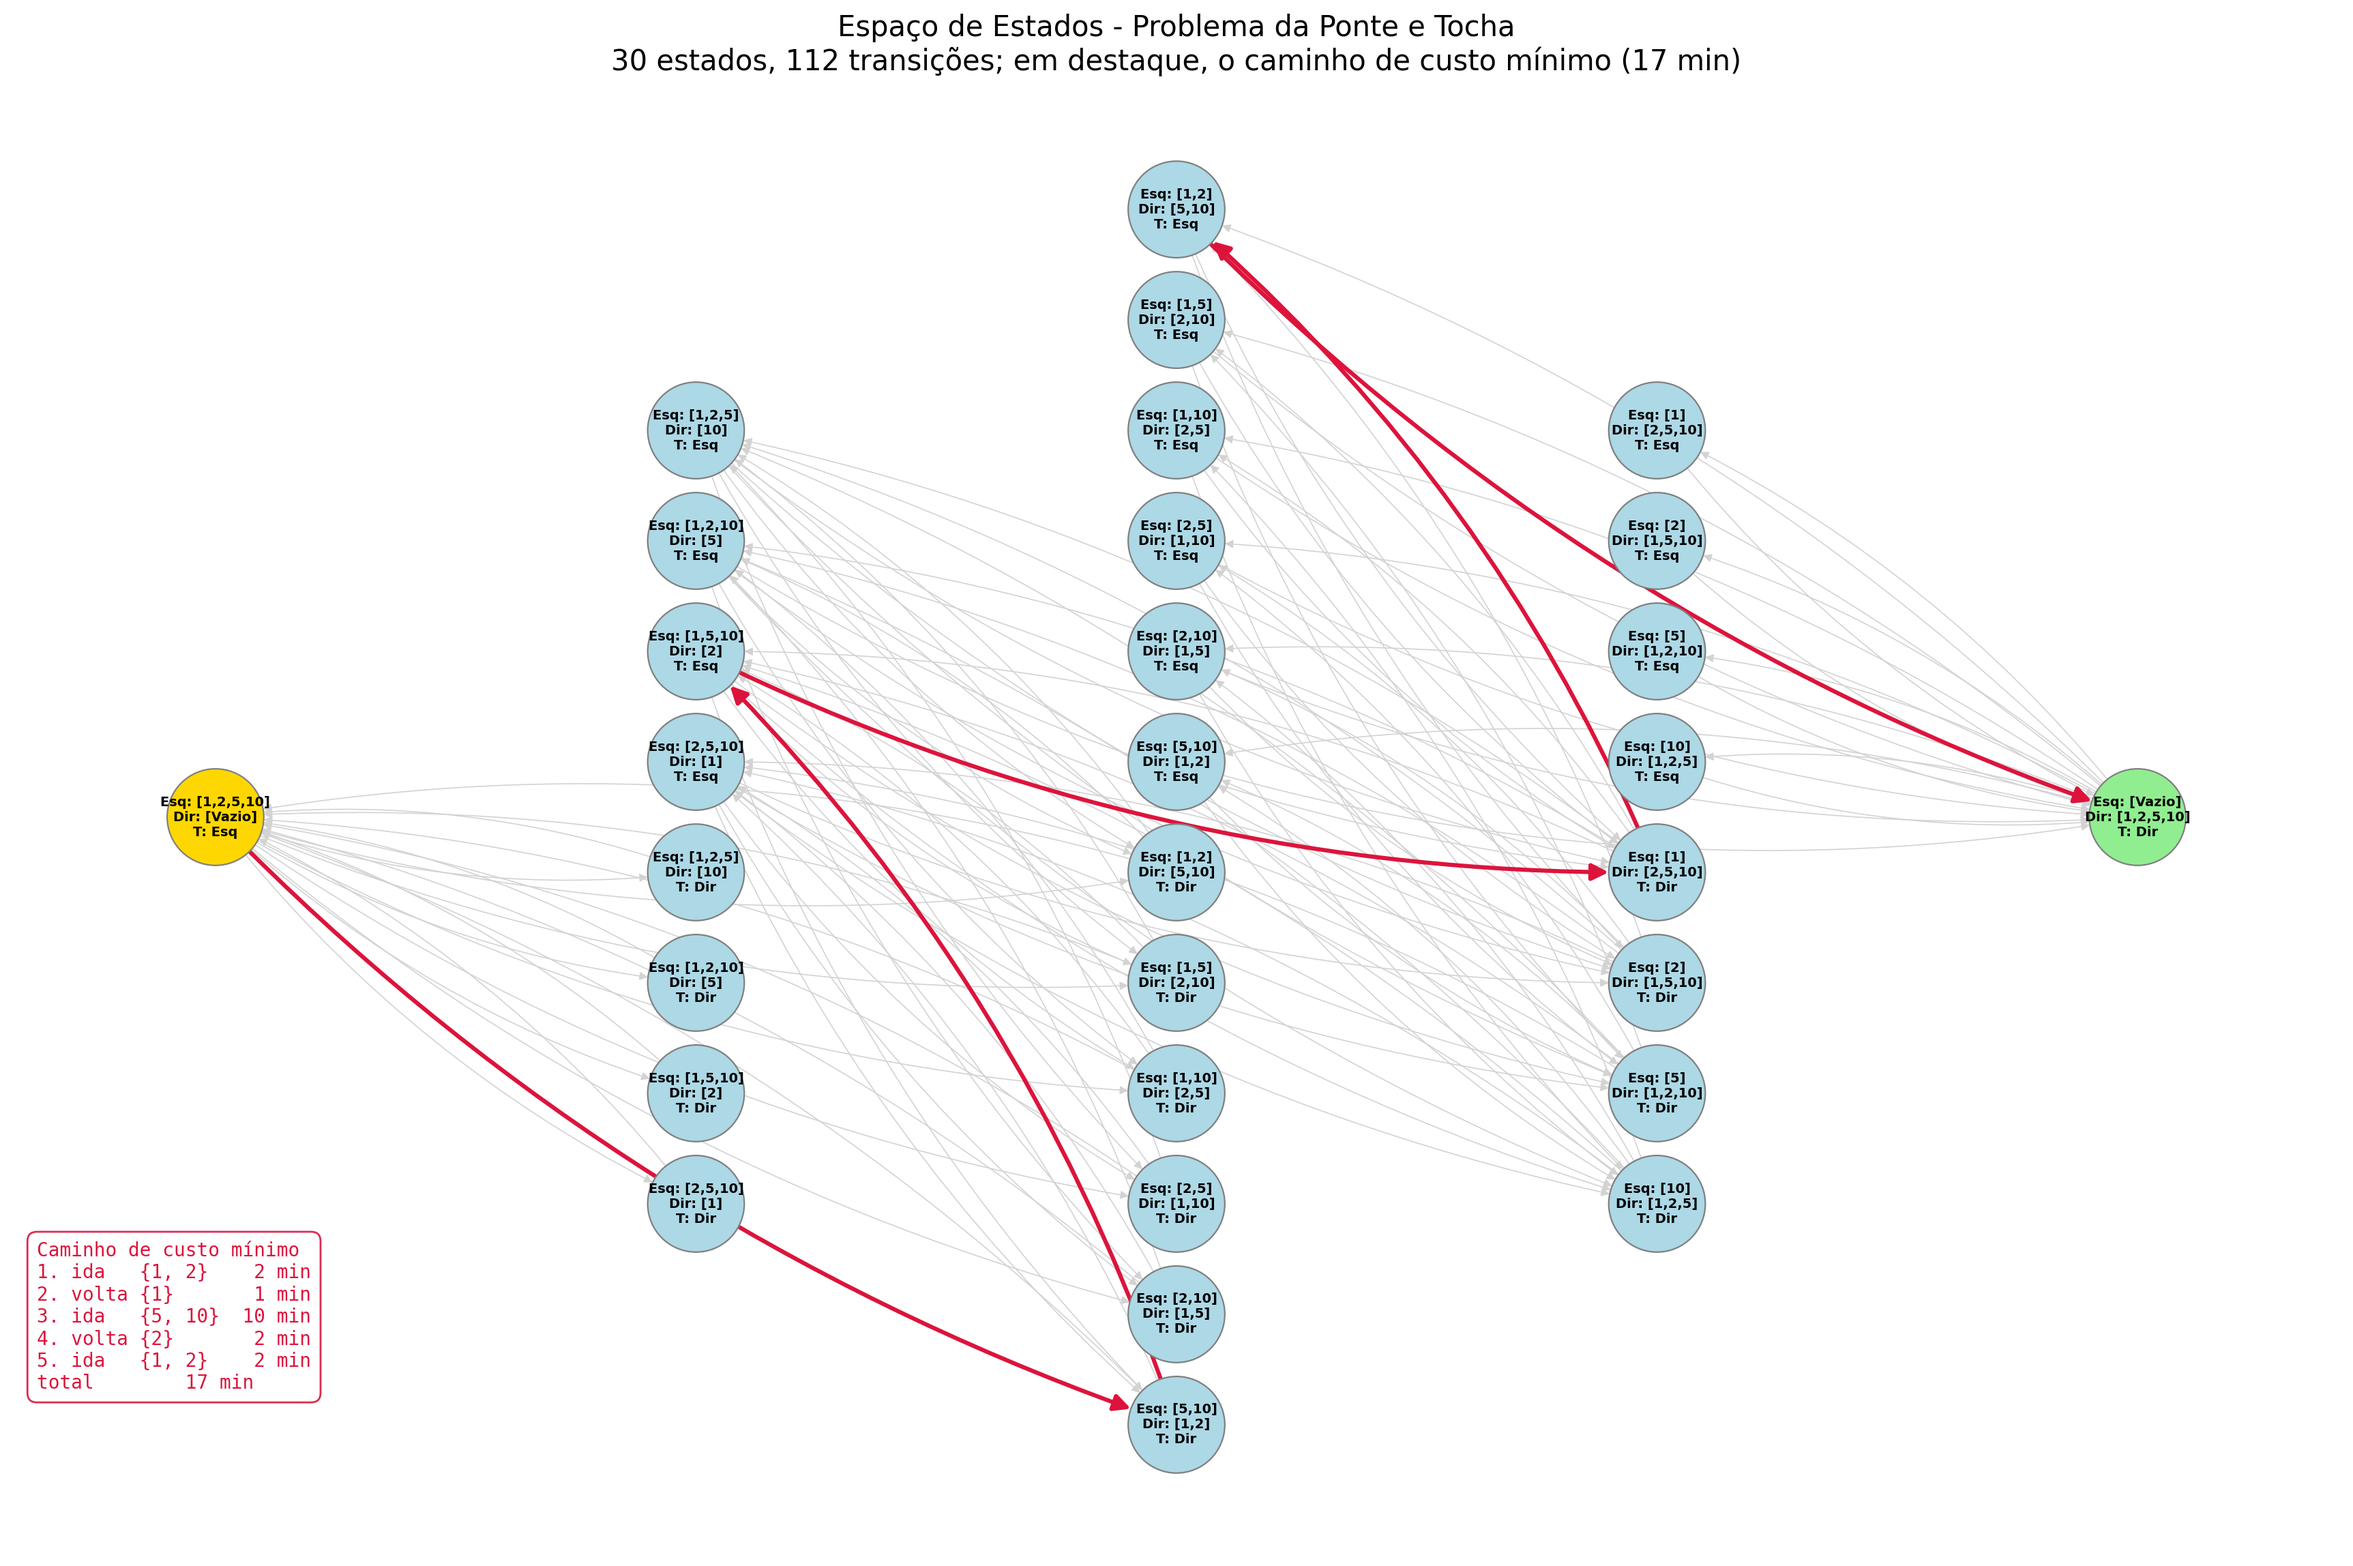
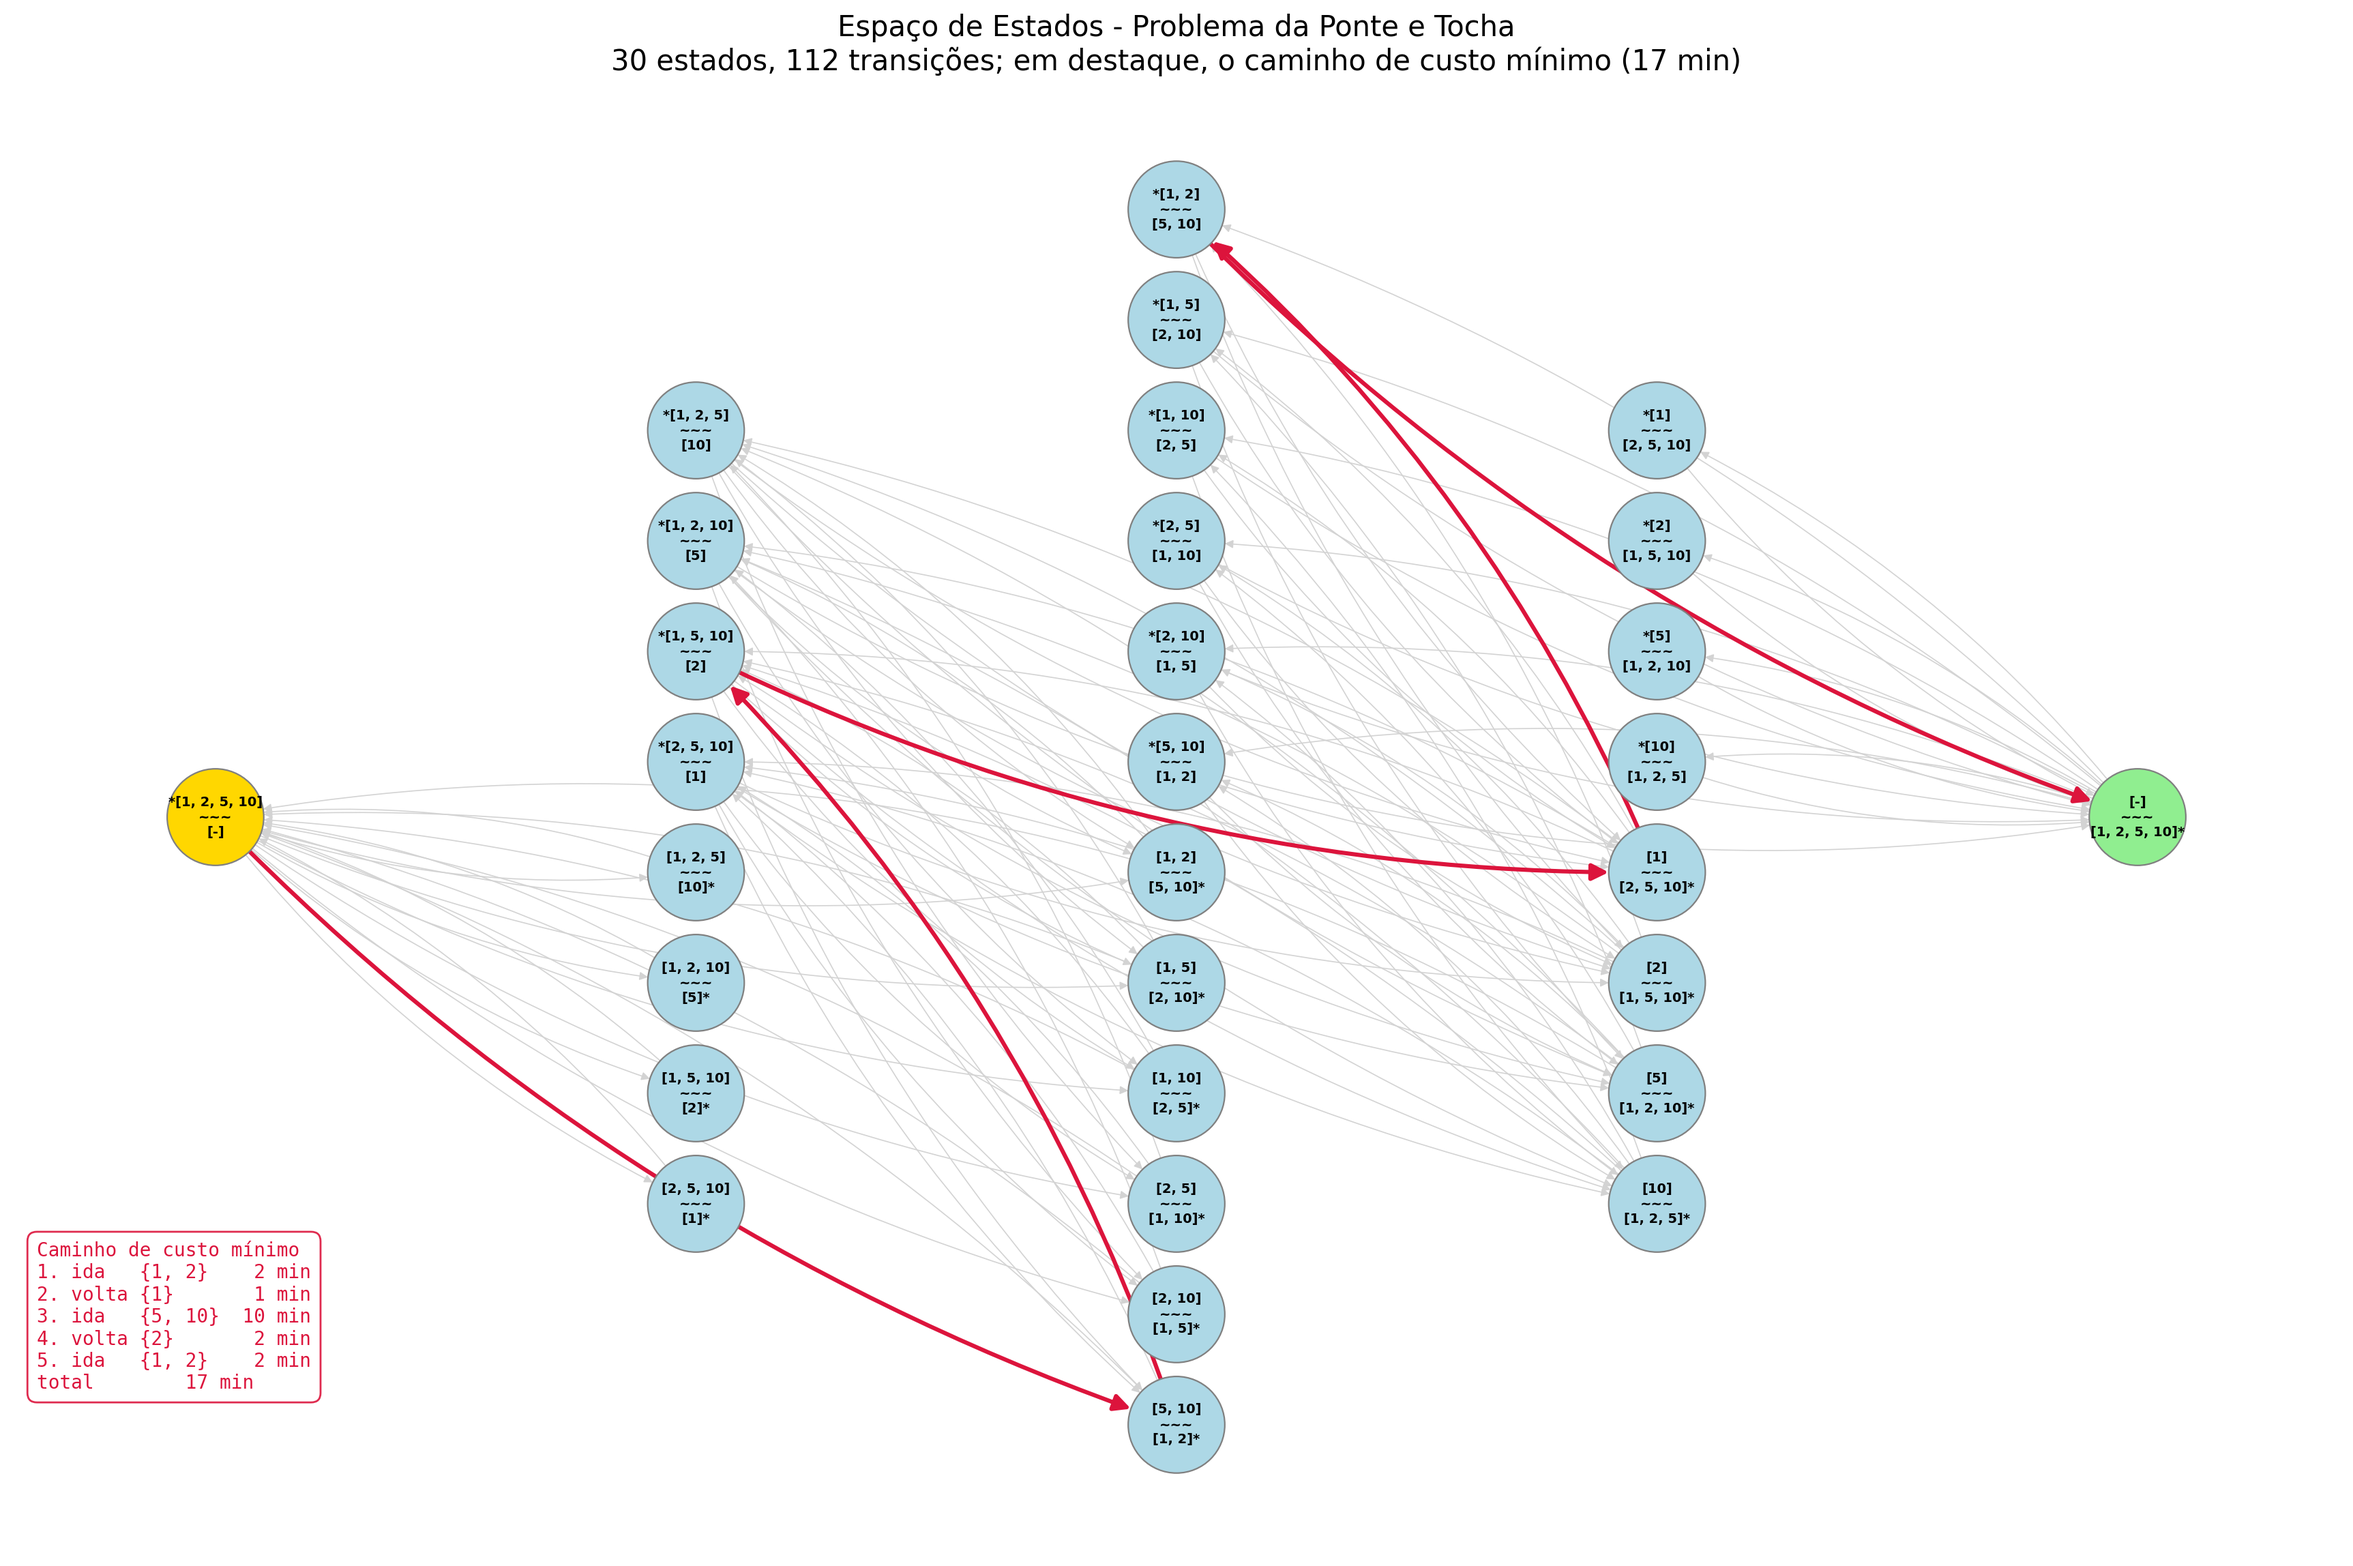
docs: documentar a CLI, o desempenho e o experimento de escalabilidade
Artefatos reproduziveis por make report e make graph.

diff --git a/resultados.md b/resultados.md
@@ -11,11 +11,11 @@ repetições, medido com `time.perf_counter()` e expresso em microssegundos (µs
 
 | Algoritmo                    | Custo (min) | Travessias | Nós expandidos | Nós gerados | Fronteira máx. | Tempo médio (µs) | Desvio (µs) | Tempo mín. (µs) |
 |:-----------------------------|------------:|-----------:|---------------:|------------:|---------------:|-----------------:|------------:|----------------:|
-| Busca em Largura (BFS)       |          19 |          5 |             25 |          98 |             10 |           310,62 |      104,11 |          245,80 |
-| Busca em Profundidade (DFS)  |          19 |          5 |              9 |          32 |             12 |           157,39 |      216,01 |           87,00 |
-| Busca de Custo Mínimo (LCFS) |          17 |          5 |             25 |          98 |             20 |           336,32 |      127,38 |          280,50 |
-| Busca A* (h1)                |          17 |          5 |             18 |          71 |             24 |           260,68 |       92,30 |          202,80 |
-| Busca A* (h2)                |          17 |          5 |             14 |          57 |             26 |           286,47 |      216,09 |          191,20 |
+| Busca em Largura (BFS)       |          19 |          5 |             25 |          98 |             10 |            69,49 |       28,58 |           62,90 |
+| Busca em Profundidade (DFS)  |          19 |          5 |              9 |          32 |             12 |            28,36 |       15,40 |           25,20 |
+| Busca de Custo Mínimo (LCFS) |          17 |          5 |             25 |          98 |             11 |            84,65 |       21,98 |           77,90 |
+| Busca A* (h1)                |          17 |          5 |             18 |          71 |             14 |            76,22 |       18,31 |           70,70 |
+| Busca A* (h2)                |          17 |          5 |             14 |          57 |             14 |            96,39 |       23,90 |           86,80 |
 
 ## Caminho da Solução Ótima
 
@@ -418,3 +418,59 @@ nós expandidos pela A\* (4 a menos, 22,2%), mantendo o mesmo
 custo ótimo da solução - o que era esperado, já que ambas são admissíveis.
 
 <!-- END:heuristicas -->
+
+<!-- BEGIN:escalabilidade -->
+
+## Escalabilidade: crescimento com o número de pessoas
+
+A instância do enunciado (quatro pessoas) é pequena demais para separar os métodos.
+Aumentando o grupo - mantendo a ponte com capacidade para duas pessoas e acrescentando
+travessias progressivamente mais lentas a partir de [1, 2, 5, 10] -, o espaço de
+estados cresce como 2^n x 2 e as diferenças ficam evidentes.
+
+### Tamanho do grafo e solução ótima
+
+| Pessoas | Tempos | Estados (\|V\|) | Transições (\|E\|) | Custo ótimo |
+|--:|:--|--:|--:|--:|
+| 4 | 1, 2, 5, 10 | 30 | 112 | 17 |
+| 5 | 1, 2, 5, 10, 15 | 62 | 320 | 28 |
+| 6 | 1, 2, 5, 10, 15, 20 | 126 | 864 | 42 |
+| 7 | 1, 2, 5, 10, 15, 20, 25 | 254 | 2240 | 58 |
+| 8 | 1, 2, 5, 10, 15, 20, 25, 30 | 510 | 5632 | 77 |
+
+### Nós expandidos
+
+| Pessoas | Busca em Largura (BFS) | Busca em Profundidade (DFS) | Busca de Custo Mínimo (LCFS) | A* (h1) | A* (h2) |
+|--:|--:|--:|--:|--:|--:|
+| 4 | 25 | 9 | 25 | 18 | 14 |
+| 5 | 56 | 12 | 56 | 38 | 26 |
+| 6 | 119 | 15 | 117 | 84 | 56 |
+| 7 | 246 | 18 | 244 | 179 | 100 |
+| 8 | 501 | 21 | 495 | 388 | 223 |
+
+### Tempo médio de processamento (µs)
+
+| Pessoas | Busca em Largura (BFS) | Busca em Profundidade (DFS) | Busca de Custo Mínimo (LCFS) | A* (h1) | A* (h2) |
+|--:|--:|--:|--:|--:|--:|
+| 4 | 71,3 | 26,6 | 82,9 | 76,3 | 97,8 |
+| 5 | 182,8 | 45,8 | 235,3 | 199,7 | 234,4 |
+| 6 | 501,7 | 90,6 | 678,0 | 648,0 | 606,9 |
+| 7 | 1299,3 | 114,3 | 1705,5 | 1488,2 | 1306,6 |
+| 8 | 4473,4 | 205,5 | 6784,8 | 6195,1 | 6237,9 |
+
+Com 8 pessoas, a Busca de Custo Mínimo expande 495 dos 510 estados do grafo, enquanto a A* com h₂ expande 223 (45,1% do total da busca cega) e chega ao mesmo custo
+ótimo. É esse o ganho que a heurística traz e que a instância de quatro pessoas não
+deixa enxergar.
+
+Em todas as instâncias testadas, Busca em Largura (BFS) e Busca em Profundidade (DFS) devolveram soluções
+subótimas. O DFS é o caso mais eloquente: é de longe quem menos expande e, ainda
+assim, nunca encontra a melhor solução - expandir pouco não é sinal de qualidade,
+apenas de parar no primeiro ramo que alcança o objetivo.
+
+Um detalhe que a tabela de tempos revela: de h₁ para h₂ os nós expandidos caem
+42,5%, mas o tempo cai apenas -0,7%. A heurística mais
+informativa poda mais, porém custa mais caro por nó avaliado - ela ordena os tempos
+da margem esquerda a cada chamada, enquanto h₁ apenas toma um máximo. O ganho em nós
+expandidos não se converte integralmente em ganho de tempo.
+
+<!-- END:escalabilidade -->

diff --git a/README.md b/README.md
@@ -8,10 +8,12 @@ Implementação computacional do problema da Ponte e da Tocha utilizando algorit
 
 ## Modelagem
 
-- **Estado:** conjunto de pessoas em cada margem e o lado em que está a tocha. Cada pessoa é identificada pelo seu tempo de travessia (1, 2, 5 e 10 minutos).
+- **Estado:** conjunto de pessoas em cada margem e o lado em que está a tocha. Cada pessoa tem identidade própria, separada do seu tempo de travessia (1, 2, 5 e 10 minutos) - duas pessoas igualmente rápidas continuam sendo duas pessoas.
 - **Estado inicial:** todas as pessoas e a tocha na margem esquerda. **Objetivo:** todas as pessoas e a tocha na margem direita.
 - **Função sucessora:** move 1 ou 2 pessoas do lado onde está a tocha para o outro lado, gerando as arestas do grafo de espaço de estados.
 - **Custo da transição:** o tempo da pessoa mais lenta do grupo que atravessa. O custo de um caminho, `g(n)`, é o tempo total acumulado.
+
+Os tempos e a capacidade da ponte são parâmetros (`BridgeProblem(times=..., capacity=...)`), o que permite estudar instâncias maiores sem tocar nos algoritmos.
 
 A busca segue o procedimento geral visto em aula: a **fronteira é um conjunto de caminhos**, e o que distingue cada estratégia é apenas o critério de seleção do próximo caminho a ser expandido.
 
@@ -54,9 +56,27 @@ Na raiz do projeto, utilize os seguintes comandos no terminal:
 - **`make run`**: Executa o comparativo dos algoritmos de busca e grava no `resultados.md` a tabela de métricas e o caminho da solução ótima. Cada algoritmo é executado 1000 vezes para o cálculo do tempo médio; use `make run REPS=100` para alterar esse número.
 - **`make transitions`**: Mapeia todo o espaço de estados e grava no `resultados.md` as propriedades do grafo e a lista de adjacências completa, com todas as transições válidas e seus custos.
 - **`make heuristics`**: Verifica admissibilidade e consistência das heurísticas em todos os estados e grava a comparação entre elas no `resultados.md`.
-- **`make report`**: Executa `run`, `transitions` e `heuristics` em sequência, produzindo o relatório completo.
+- **`make scaling`**: Repete o comparativo para grupos de 4 a 8 pessoas e grava a análise de escalabilidade, onde as diferenças entre os métodos aparecem com clareza.
+- **`make report`**: Executa `run`, `transitions`, `heuristics` e `scaling` em sequência, produzindo o relatório completo.
 - **`make graph`**: Mapeia o domínio do problema e exporta a visualização do grafo em alta resolução para a imagem `bridge_state_graph.png`.
 - **`make clean`**: Limpa diretórios de cache (`__pycache__`, `.pytest_cache`) e destrói o ambiente virtual.
+
+### Linha de comando
+
+O `make run` é um atalho para `src.main`, que aceita parâmetros:
+
+```bash
+uv run python -m src.main --algoritmos bfs astar-h2   # escolhe os métodos
+uv run python -m src.main --tempos 1 2 5 10 15 --capacidade 3
+uv run python -m src.main --repeticoes 200 --saida outro.md
+uv run python -m src.main --sem-cache                 # mede sem memoização
+```
+
+Os métodos disponíveis são `bfs`, `dfs`, `lcfs`, `astar-h1` e `astar-h2`.
+
+### Desempenho
+
+A função sucessora é determinística, então seu resultado é memoizado e reaproveitado entre repetições e entre algoritmos; o cache é aquecido antes da cronometragem, de modo que todos os métodos sejam medidos nas mesmas condições. Isso responde por uma redução de 62% a 84% no tempo de execução. As buscas por fila de prioridade também mantêm o melhor custo já enfileirado para cada estado, evitando empilhar caminhos dominados.
 
 ### Sobre o `resultados.md`
 
@@ -66,8 +86,8 @@ Cada comando é dono de uma seção do arquivo, delimitada por marcadores `<!-- 
 
 ```
 src/
-├── models/          # State, Arc (aresta) e Path (caminho na fronteira), BridgeProblem
+├── models/          # Person, State, Arc (aresta), Path (caminho na fronteira), BridgeProblem
 ├── algorithms/      # BaseSearch (procedimento geral e métricas), buscas cegas e informada
-└── utils/           # espaço de estados, heurísticas, relatórios e geração do grafo
-tests/               # modelagem, algoritmos, heurísticas e propriedades do grafo
+└── utils/           # espaço de estados, heurísticas, relatórios, escalabilidade e grafo
+tests/               # modelagem, algoritmos, heurísticas, grafo, CLI e escalabilidade
 ```
